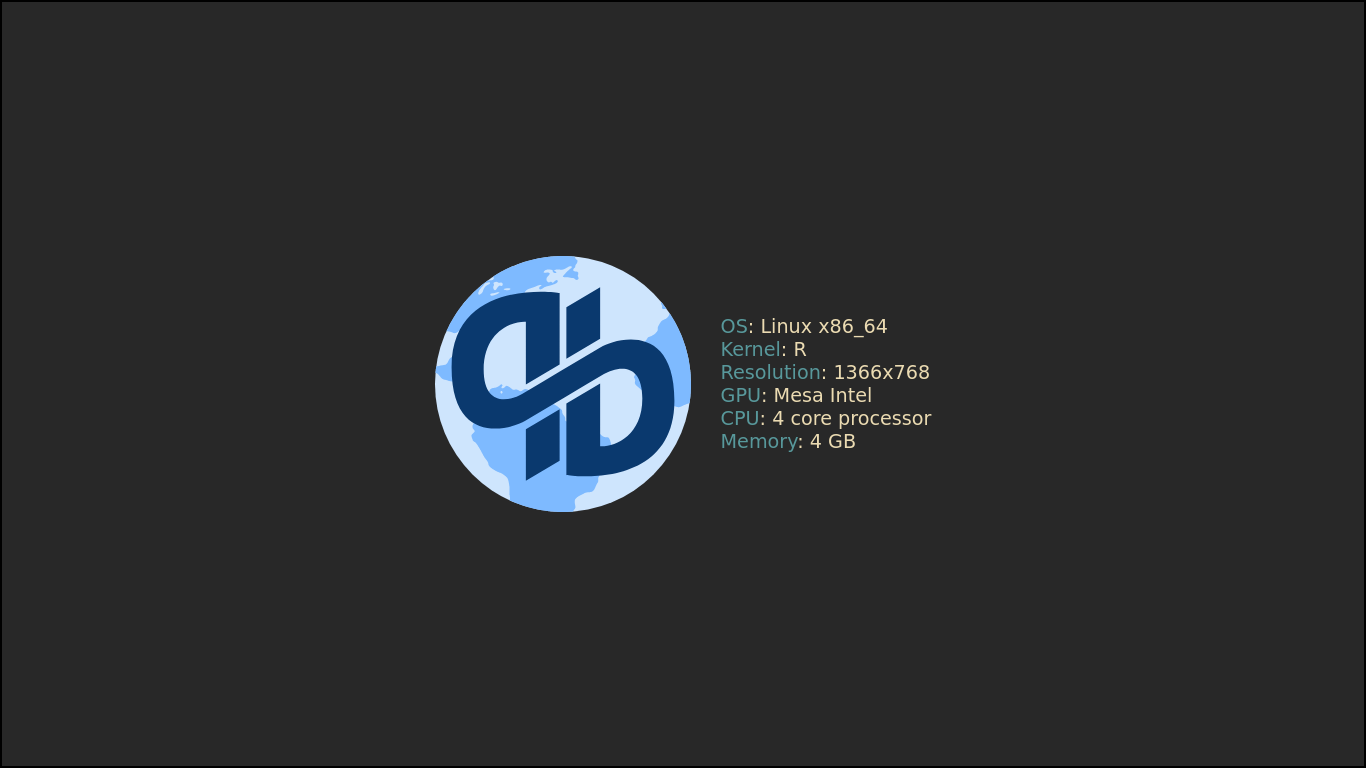
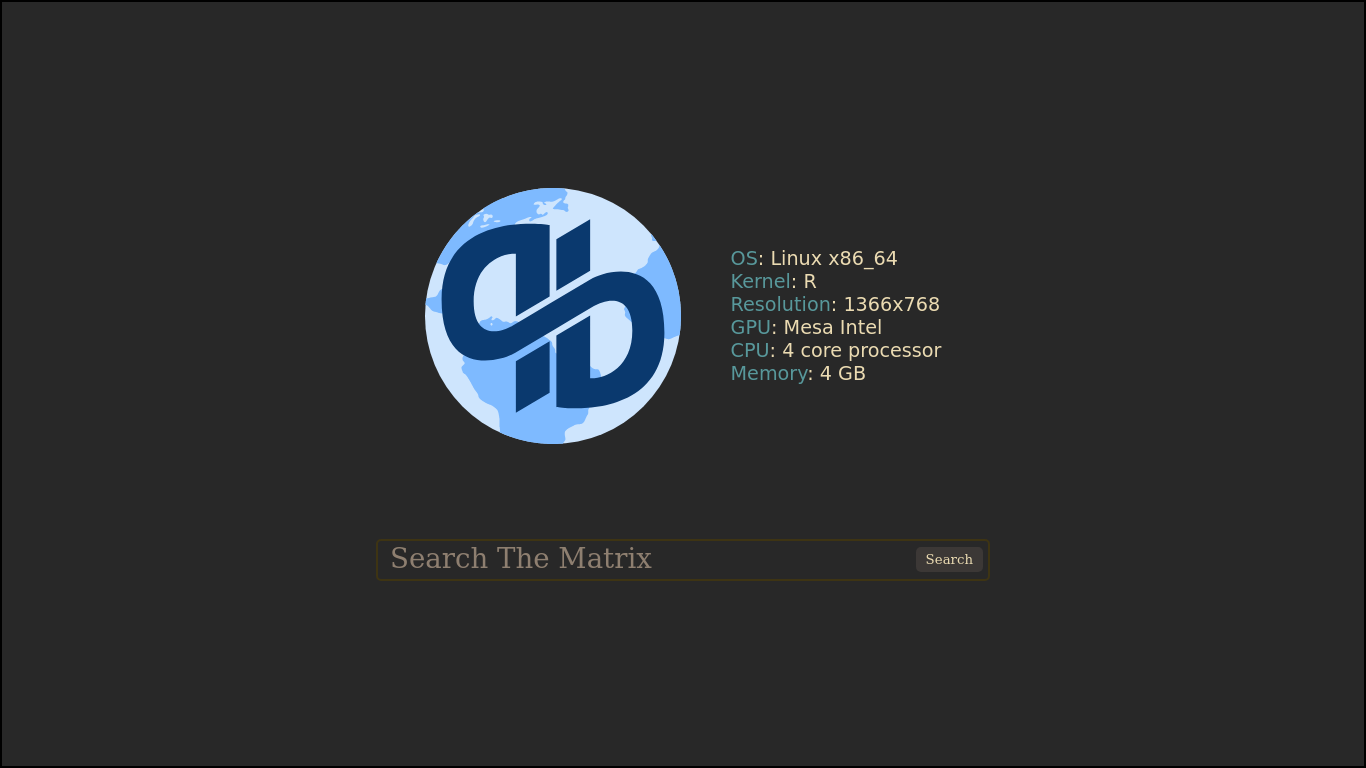
Changing the demo.png and adding a search field below qutefetch.

Changed region(s): [[0.3075, 0.2188, 0.7072, 0.6875], [0.2767, 0.7188, 0.4919, 0.75], [0.6764, 0.7188, 0.7072, 0.75]]

diff --git a/index.html b/index.html
@@ -12,6 +12,7 @@
       font-size: larger;
       height: 100vh;
       display: flex;
+      flex-direction: column;
       justify-content: center;
       align-items: center;
       margin: 0px;
@@ -20,11 +21,64 @@
     body > * {
       margin: 15px;
     }
+
+    /* Style for the logo and search bar container */
+    #content-container {
+      display: flex;
+      flex-direction: row;
+      align-items: center;
+    }
+
+    /* Modified styles for the search bar */
+    #search-bar {
+      display: flex;
+      align-items: center;
+      margin-top: 80px;
+      border: 2px solid #ebdbb2; /* Beige border */
+      border-radius: 5px;
+      width: 600px;
+      background-color: #282828; /* Dark background to resemble terminal */
+      padding: 5px;
+    }
+
+    #search-input {
+      flex: 1;
+      background-color: transparent;
+      border: none;
+      color: #ebdbb2;
+      font-size: larger;
+      margin-left: 5px;
+      outline: none; /* Remove the default focus outline */
+    }
+
+    #search-input::placeholder {
+      /* Add terminal-like caret symbol for the placeholder text */
+      content: "\u258B";
+      color: #928374; /* Grey caret color */
+      font-size: larger;
+      margin-left: 3px;
+    }
+
+    #search-button {
+      background-color: #3c3836; /* Dark brown color to match terminal */
+      color: #ebdbb2;
+      border: none;
+      padding: 5px 10px;
+      border-radius: 5px;
+      cursor: pointer;
+    }
   </style>
 </head>
 <body>
-  <img src="https://qutebrowser.org/icons/qutebrowser.svg" alt="Qutebrowser Logo">
-  <div id="sysinfo" style="float: right"></div>
+  <div id="content-container">
+    <img src="https://qutebrowser.org/icons/qutebrowser.svg" alt="Qutebrowser Logo">
+    <div id="sysinfo" style="margin-left: 50px;"></div>
+  </div>
+
+  <div id="search-bar">
+    <input type="text" id="search-input" placeholder="Search The Matrix">
+    <button id="search-button">Search</button>
+  </div>
 
   <script>
     function newSysinfoRow(title, text) {
@@ -67,6 +121,24 @@
     sysinfo.appendChild(newSysinfoRow("CPU", `${navigator.hardwareConcurrency} core processor`));
 
     sysinfo.appendChild(newSysinfoRow("Memory", `${navigator.deviceMemory} GB`));
+
+    // Search functionality
+    const searchInput = document.getElementById("search-input");
+    const searchButton = document.getElementById("search-button");
+
+    searchButton.addEventListener("click", () => {
+      const query = searchInput.value.trim();
+      if (query !== "") {
+        const searchUrl = "https://duckduckgo.com/?q=" + encodeURIComponent(query);
+        window.open(searchUrl, "_blank");
+      }
+    });
+
+    searchInput.addEventListener("keydown", (event) => {
+      if (event.key === "Enter") {
+        searchButton.click();
+      }
+    });
   </script>
 </body>
 </html>
